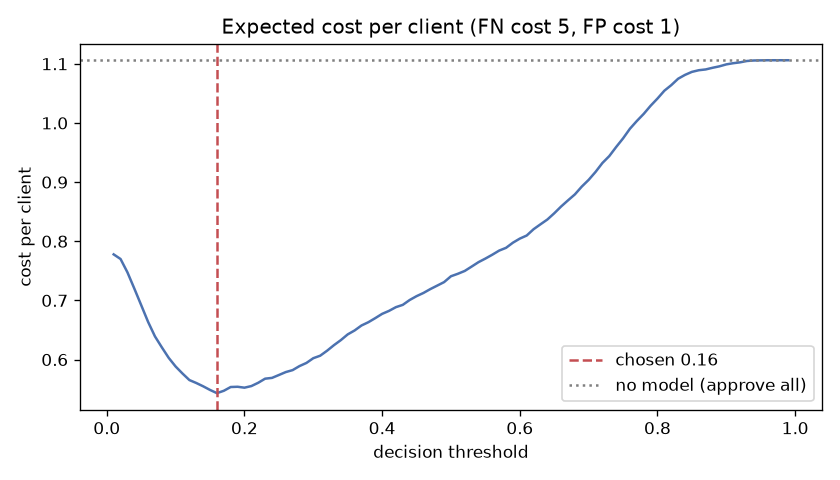
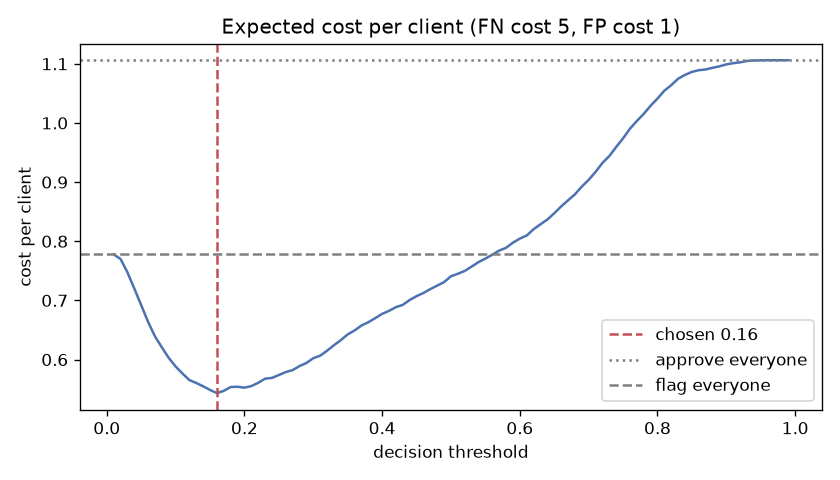
fix: findings from independent review
- API: reject NaN/Infinity (previously 500 or silently imputed); 422 body no longer
  echoes input
- tests: honest canary docstring; new test that model inputs cannot depend on the
  target; removed a preprocessing test that could not fail
- CI: download and split before make check so the split test runs
- .gitignore: track reports/history (4 archive files were silently ignored)
- xgboost dependency for every non-Linux platform (Windows untested)
- README/error analysis: cost cut vs the cheapest trivial policy (27% test), 95%
  intervals in the fairness audit, same-period test limitation, payment-ratio note

diff --git a/tests/test_training.py b/tests/test_training.py
@@ -22,10 +22,12 @@ def small_cfg() -> dict:
 
 
 def test_out_of_fold_has_no_skill_on_shuffled_labels(make_clients, small_cfg) -> None:
-    """Target-leakage canary: with labels shuffled, nothing can be learned honestly.
+    """With labels shuffled, nothing can be learned honestly.
 
-    If labels leaked into features, preprocessing or fold assignment, the out-of-fold
-    ROC-AUC would rise well above 0.5 (no skill).
+    Catches a training path that scores rows with a model that saw them (e.g. fitting on
+    all rows instead of per fold): that gives ROC-AUC ~0.85 here. It cannot catch target
+    information inside the features, because shuffled labels are unrelated to them;
+    test_model_inputs_do_not_depend_on_the_target covers that.
     """
     clients = make_clients(n=2000, seed=5)
     X = prepare(clients)
@@ -34,6 +36,15 @@ def test_out_of_fold_has_no_skill_on_shuffled_labels(make_clients, small_cfg) ->
     )
     oof = train.out_of_fold(X, y, small_cfg)
     assert roc_auc_score(y, oof) < 0.56
+
+
+def test_model_inputs_do_not_depend_on_the_target(make_clients) -> None:
+    """Feature preparation must give identical inputs whatever the labels are."""
+    clients = make_clients(n=200, seed=7)
+    flipped = clients.assign(default=1 - clients["default"])
+    out = prepare(clients)
+    assert "default" not in out.columns
+    pd.testing.assert_frame_equal(out, prepare(flipped))
 
 
 def test_out_of_fold_learns_real_signal(make_clients, small_cfg) -> None:

diff --git a/src/credit_default_risk/api.py b/src/credit_default_risk/api.py
@@ -10,7 +10,9 @@ from contextlib import asynccontextmanager
 from pathlib import Path
 
 import pandas as pd
-from fastapi import FastAPI, HTTPException
+from fastapi import FastAPI, HTTPException, Request
+from fastapi.exceptions import RequestValidationError
+from fastapi.responses import JSONResponse
 from pydantic import BaseModel, ConfigDict, Field
 
 from credit_default_risk.config import load_config, project_path
@@ -27,6 +29,9 @@ class Client(BaseModel):
 
     model_config = ConfigDict(
         extra="forbid",
+        # JSON parsers accept NaN/Infinity literals; reject them instead of letting the
+        # imputer silently fill them or the error response fail to serialise.
+        allow_inf_nan=False,
         json_schema_extra={
             "example": {
                 "LIMIT_BAL": 50000, "EDUCATION": 2,
@@ -84,6 +89,14 @@ async def lifespan(app: FastAPI):
 
 
 app = FastAPI(title="Credit default risk", version="0.1.0", lifespan=lifespan)
+
+
+@app.exception_handler(RequestValidationError)
+async def validation_error(request: Request, exc: RequestValidationError) -> JSONResponse:
+    # The default handler echoes the rejected input, which fails to serialise for
+    # NaN/Infinity (a 500 instead of a 422) and repeats client data back.
+    detail = [{k: e[k] for k in ("type", "loc", "msg") if k in e} for e in exc.errors()]
+    return JSONResponse(status_code=422, content={"detail": detail})
 
 
 @app.get("/health")

diff --git a/tests/test_model.py b/tests/test_model.py
@@ -3,28 +3,8 @@ import pandas as pd
 import pytest
 
 from credit_default_risk.config import load_config, project_path
-from credit_default_risk.features import AMOUNTS, SENSITIVE, build_preprocessor, prepare
 from credit_default_risk.predict import load_bundle, predict
 from credit_default_risk.threshold import choose_threshold, metrics_at
-
-
-def test_preprocessing_is_fitted_on_train_only(make_clients) -> None:
-    """Scaling statistics must come from the rows the pipeline was fitted on.
-
-    The "test" rows have amounts 1000x larger. If they leaked into fitting, the
-    training rows would not be centred and the test rows would not be far off-centre.
-    """
-    train = prepare(make_clients(n=200, seed=1))
-    test_raw = make_clients(n=200, seed=2)
-    test_raw[AMOUNTS] = test_raw[AMOUNTS] * 1000
-    test = prepare(test_raw)
-
-    pre = build_preprocessor(exclude=SENSITIVE).fit(train)
-    names = list(pre.get_feature_names_out())
-    cols = [names.index(c) for c in AMOUNTS]
-
-    assert np.allclose(pre.transform(train)[:, cols].mean(axis=0), 0, atol=1e-8)
-    assert (pre.transform(test)[:, cols].mean(axis=0) > 1).all()
 
 
 def test_train_and_test_ids_are_disjoint() -> None:

diff --git a/tests/test_api.py b/tests/test_api.py
@@ -1,3 +1,5 @@
+import json
+
 import pytest
 from fastapi.testclient import TestClient
 
@@ -43,3 +45,14 @@ def test_predict_rejects_sensitive_attributes(client, payload) -> None:
 def test_predict_rejects_missing_field(client, payload) -> None:
     del payload["LIMIT_BAL"]
     assert client.post("/predict", json=payload).status_code == 422
+
+
+@pytest.mark.parametrize("field", ["LIMIT_BAL", "BILL_AMT1", "PAY_AMT1"])
+@pytest.mark.parametrize("literal", ["NaN", "Infinity", "-Infinity"])
+def test_predict_rejects_non_finite_numbers(client, payload, field, literal) -> None:
+    # NaN/Infinity are not valid JSON but are accepted by Python's JSON parser.
+    body = json.dumps(payload).replace(f'"{field}": {payload[field]}', f'"{field}": {literal}')
+    assert literal in body
+    r = client.post("/predict", content=body, headers={"Content-Type": "application/json"})
+    assert r.status_code == 422
+    assert r.json()["detail"]

diff --git a/src/credit_default_risk/features.py b/src/credit_default_risk/features.py
@@ -47,7 +47,10 @@ def add_features(df: pd.DataFrame) -> pd.DataFrame:
     # Share of the previous statement that was paid. The payment in month m settles the
     # bill of month m+1: PAY_AMT1 equals BILL_AMT2 exactly for 15.2% of clients with a
     # positive bill, against 2.4% for BILL_AMT1 (training split). Clipped because bills
-    # can be ~0 or negative.
+    # can be ~0 or negative. When there was no previous bill (BILL_AMT2 <= 0, 10.4% of
+    # clients) this is just PAY_AMT1 clipped, usually 0, the same value as "had a bill and
+    # paid nothing"; the trees can tell the two apart through BILL_AMT2. An explicit
+    # no-previous-bill flag changed CV PR-AUC by +0.0011 ± 0.0016, so it was not adopted.
     df["payment_ratio_1"] = (df["PAY_AMT1"] / df["BILL_AMT2"].clip(lower=1)).clip(upper=1.5)
     late = df[PAY_STATUS].clip(lower=0)
     df["months_late"] = (late > 0).sum(axis=1)

diff --git a/src/credit_default_risk/analysis.py b/src/credit_default_risk/analysis.py
@@ -28,7 +28,8 @@ def plot_cost_curve(y, proba, cfg, threshold: float, path) -> None:
     fig, ax = plt.subplots(figsize=(7, 4))
     ax.plot(grid, costs, color="#4C72B0")
     ax.axvline(threshold, color="#C44E52", linestyle="--", label=f"chosen {threshold:.2f}")
-    ax.axhline(cost_fn * np.mean(y), color="grey", linestyle=":", label="no model (approve all)")
+    ax.axhline(cost_fn * np.mean(y), color="grey", linestyle=":", label="approve everyone")
+    ax.axhline(cost_fp * (1 - np.mean(y)), color="grey", linestyle="--", label="flag everyone")
     ax.set(
         title=f"Expected cost per client (FN cost {cost_fn}, FP cost {cost_fp})",
         xlabel="decision threshold",

diff --git a/README.md b/README.md
@@ -2,13 +2,13 @@
 
 Predict whether a credit card client will miss next month's payment, choose the decision threshold from the cost of each kind of error, and serve the model as a containerised API.
 
-**Result:** on a held-out test set of 6,000 clients, the model cuts the expected cost of errors by **49%** compared with approving everyone. It catches **75% of defaulters** (PR-AUC 0.554 against a 0.221 no-skill baseline), without using sex, marital status or age.
+**Result:** on a held-out test set of 6,000 clients, the model cuts the expected cost of errors by **27%** compared with the cheapest simple policy (flagging everyone), and by 49% compared with approving everyone. It catches **75% of defaulters** (PR-AUC 0.554 against a 0.221 no-skill baseline), without using sex, marital status or age.
 
 ## Problem
 
 A card issuer reviews its clients every month. For each client the model estimates the probability of defaulting on the next payment, and clients above a threshold are flagged for action (manual review, a reminder or a lower limit).
 
-Missing a defaulter is assumed to cost **5 times** as much as flagging a client who would have paid. Success is measured as the expected cost per client against the policy of flagging no one. PR-AUC is the ranking metric, because only 22% of clients default and accuracy would be misleading.
+Missing a defaulter is assumed to cost **5 times** as much as flagging a client who would have paid. Success is measured as the expected cost per client against the two simple policies: approving everyone and flagging everyone. PR-AUC is the ranking metric, because only 22% of clients default and accuracy would be misleading.
 
 ## Data
 
@@ -20,7 +20,7 @@ Missing a defaulter is assumed to cost **5 times** as much as flagging a client 
 
 1. **Split first.** The data is split 80/20 into train and test, stratified at 22.12% defaults in both. The test set is not used for any modelling decision; see [Test-set use](#test-set-use) for the two times it was evaluated.
 2. **Exploration on train only** ([reports/eda.md](reports/eda.md)). Recent repayment status dominates: clients late last month default at 50.4%, against 13.7% for everyone else. The categorical codes contain undocumented values, the bill amounts are highly collinear and skewed, and each payment settles the *previous* month's bill.
-3. **No-leakage pipeline.** Cleaning and engineered features (`months_late`, `max_months_late`, utilisation, payment ratio) are computed row by row. Imputation, scaling and one-hot encoding are fitted inside a scikit-learn `Pipeline` on each training fold only. The same `prepare()` function runs in training and in the API. Tests check this on the real training path, with a shuffled-label canary and a per-fold refit comparison.
+3. **No-leakage pipeline.** Cleaning and engineered features (`months_late`, `max_months_late`, utilisation, payment ratio) are computed row by row. Imputation, scaling and one-hot encoding are fitted inside a scikit-learn `Pipeline` on each training fold only. The same `prepare()` function runs in training and in the API. Tests check that the model inputs cannot depend on the target, that every out-of-fold score comes from a pipeline refitted without that fold, and that a training path scoring rows its model has seen would be detected.
 4. **Model selection** with stratified 5-fold cross-validation ([reports/cv_results.md](reports/cv_results.md)): a prior baseline, logistic regression, random forest and XGBoost. XGBoost was chosen before the test set was opened.
 5. **Sensitive attributes removed.** Dropping sex, marital status and age cost 0.0002 PR-AUC in cross-validation, against a fold-to-fold standard deviation of 0.012. They are not model inputs, and the API does not accept them.
 6. **Cost-based threshold** ([reports/error_analysis.md](reports/error_analysis.md)). The threshold 0.16 minimises expected cost on out-of-fold predictions. It matches the decision-theory optimum 1/(1+5) ≈ 0.167, because the model is well calibrated overall (mean prediction 0.220 vs 0.221 observed).
@@ -46,9 +46,11 @@ Final model, threshold 0.16 ([reports/test_metrics.json](reports/test_metrics.js
 | Recall | 76.7% | 74.6% |
 | Precision | 37.3% | 36.5% |
 | Clients flagged | 45.5% | 45.2% |
-| Cost per client (no model: 1.106) | 0.543 | 0.568 |
+| Cost per client | 0.543 | 0.568 |
+| … if everyone is approved | 1.106 | 1.106 |
+| … if everyone is flagged | 0.779 | 0.779 |
 
-The test PR-AUC is within 0.005 of cross-validation, so there is no sign of overfitting to the validation folds.
+The test PR-AUC is within 0.005 of cross-validation, so there is no sign of overfitting to the validation folds. The test clients come from the same months as the training clients, so this says nothing about how the model holds up on later months (see Limitations).
 
 **Serving:** CPU inference in Docker on a 2-core 2018 MacBook Air takes 32 ms on average and 51 ms at p95 per request, end to end over HTTP (50 requests).
 
@@ -126,8 +128,10 @@ Other targets: `make check` (Ruff + pytest), `make eda`, `make cv`, `make analys
 ## Limitations
 
 - **Clean-history defaulters are a blind spot.** 91% of the missed defaulters were never late in the previous 6 months. The data has no income, other debts or bureau score, so these clients look like good ones.
-- **The 5:1 cost ratio is an assumption.** At this ratio 45% of clients are flagged, which only makes sense if the action is cheap (a reminder or a review, not a refusal). The cost curve is flat between about 0.12 and 0.25, so the threshold can be raised with little loss.
-- **Indirect group differences remain.** Without using age, good clients aged 21–25 are still flagged 50% of the time, against 34% for ages 26–40, mostly through lower credit limits. The model also slightly under-predicts risk for ages 41–60 (22.5% predicted vs 23.8% observed). This needs a review before any real use.
+- **The test set is from the same period.** The split is random within one observation window (April–September 2005, target October 2005). The test score measures performance on unseen clients from that period, not on future months; an out-of-time evaluation would need later data.
+- **The 5:1 cost ratio is an assumption.** At this ratio 45% of clients are flagged, and flagging everyone is already 30% cheaper than approving everyone, which only makes sense if the action is cheap (a reminder or a review, not a refusal). The cost curve is flat between about 0.12 and 0.25, so the threshold can be raised with little loss.
+- **Indirect group differences remain.** Without using age, good clients aged 21–25 are still flagged 50% of the time, against 34% for ages 26–40, mostly through lower credit limits. There is weak evidence that the model slightly under-predicts risk for men and for ages 41–60 (about 1 pp, just outside the 95% interval). This needs a review before any real use.
+- **`payment_ratio_1` gives the same value to "no previous bill" and "had a bill, paid nothing".** The trees can separate them through `BILL_AMT2`. An explicit flag was tested in cross-validation only (+0.0011 ± 0.0016 PR-AUC, within noise), so the evaluated model was kept rather than using the test set a third time.
 - **The evaluated model file is not distributed with the repo.** A clone can reproduce the results within tolerance, but not the exact file.
 - **The data is old and from one market** (Taiwan, 2005, a period of rising card debt). The model would need revalidation on current data, and monitoring for drift.
 

diff --git a/reports/history/v1/error_analysis_tables.md b/reports/history/v1/error_analysis_tables.md
@@ -1,0 +1,75 @@
+# Error analysis tables (generated by `make analysis`)
+
+Out-of-fold predictions on the training split, threshold 0.16. Recall = share of defaulters flagged; false positive rate = share of non-defaulters flagged; mean predicted vs default rate shows calibration.
+
+## Permutation importance (mean drop in PR-AUC over 5 validation folds)
+
+| feature | mean | std |
+| --- | --- | --- |
+| PAY_1 | 0.126 | 0.017 |
+| months_late | 0.031 | 0.003 |
+| max_months_late | 0.017 | 0.005 |
+| BILL_AMT1 | 0.012 | 0.004 |
+| PAY_AMT3 | 0.009 | 0.004 |
+| utilization_1 | 0.008 | 0.003 |
+| LIMIT_BAL | 0.008 | 0.003 |
+| PAY_AMT2 | 0.007 | 0.001 |
+| PAY_AMT6 | 0.005 | 0.003 |
+| EDUCATION | 0.005 | 0.002 |
+| PAY_AMT5 | 0.004 | 0.002 |
+| PAY_AMT1 | 0.003 | 0.002 |
+
+## Most recent repayment status (PAY_1)
+
+| segment | clients | default rate | flagged | recall | false positive rate | mean predicted |
+| --- | --- | --- | --- | --- | --- | --- |
+| paid / revolving (≤0) | 18,506 | 0.137 | 0.313 | 0.530 | 0.279 | 0.136 |
+| 1 month late | 3,000 | 0.344 | 0.874 | 0.954 | 0.832 | 0.344 |
+| 2+ months late | 2,494 | 0.697 | 0.998 | 0.999 | 0.995 | 0.693 |
+
+## Months late in the last 6
+
+| segment | clients | default rate | flagged | recall | false positive rate | mean predicted |
+| --- | --- | --- | --- | --- | --- | --- |
+| never late | 15,896 | 0.115 | 0.224 | 0.386 | 0.203 | 0.114 |
+| 1-2 months | 5,104 | 0.330 | 0.855 | 0.932 | 0.817 | 0.328 |
+| 3-6 months | 3,000 | 0.599 | 0.995 | 0.998 | 0.990 | 0.600 |
+
+## Credit limit quintile
+
+| segment | clients | default rate | flagged | recall | false positive rate | mean predicted |
+| --- | --- | --- | --- | --- | --- | --- |
+| Q1 lowest | 6,146 | 0.322 | 0.711 | 0.869 | 0.635 | 0.322 |
+| Q2 | 3,819 | 0.259 | 0.503 | 0.807 | 0.397 | 0.258 |
+| Q3 | 4,922 | 0.200 | 0.403 | 0.719 | 0.325 | 0.199 |
+| Q4 | 4,380 | 0.169 | 0.336 | 0.652 | 0.272 | 0.165 |
+| Q5 highest | 4,733 | 0.131 | 0.246 | 0.583 | 0.195 | 0.130 |
+
+## Education
+
+| segment | clients | default rate | flagged | recall | false positive rate | mean predicted |
+| --- | --- | --- | --- | --- | --- | --- |
+| graduate school | 8,455 | 0.193 | 0.405 | 0.735 | 0.326 | 0.191 |
+| high school | 3,903 | 0.250 | 0.504 | 0.798 | 0.406 | 0.250 |
+| other | 386 | 0.073 | 0.111 | 0.179 | 0.106 | 0.082 |
+| university | 11,256 | 0.238 | 0.487 | 0.780 | 0.395 | 0.236 |
+
+## Sex (not a model input; fairness audit)
+
+| segment | clients | default rate | flagged | recall | false positive rate | mean predicted |
+| --- | --- | --- | --- | --- | --- | --- |
+| female | 14,514 | 0.206 | 0.434 | 0.755 | 0.351 | 0.211 |
+| male | 9,486 | 0.244 | 0.485 | 0.780 | 0.390 | 0.234 |
+
+## Age band (not a model input; fairness audit)
+
+| segment | clients | default rate | flagged | recall | false positive rate | mean predicted |
+| --- | --- | --- | --- | --- | --- | --- |
+| 21-25 | 3,104 | 0.269 | 0.586 | 0.819 | 0.500 | 0.271 |
+| 26-40 | 14,336 | 0.203 | 0.420 | 0.744 | 0.338 | 0.206 |
+| 41-60 | 6,346 | 0.238 | 0.466 | 0.777 | 0.369 | 0.225 |
+| 61+ | 214 | 0.276 | 0.505 | 0.814 | 0.387 | 0.252 |
+
+## Missed defaulters
+
+1242 of 5309 defaulters were not flagged. 90.4% of them were never late in the last 6 months (vs 34.5% of all defaulters).

diff --git a/reports/error_analysis.md b/reports/error_analysis.md
@@ -14,9 +14,10 @@ Every number here comes from out-of-fold predictions on the 24,000 training clie
 | Precision (flagged clients who default) | 37.3% |
 | Clients flagged | 45.5% |
 | Cost per client | 0.543 |
-| Cost per client with no model (approve everyone) | 1.106 |
+| Cost per client if everyone is approved | 1.106 |
+| Cost per client if everyone is flagged | 0.779 |
 
-The model **cuts the expected cost of errors by 51%** compared with approving everyone. The price is that almost half of clients are flagged. The cost curve is flat between about 0.12 and 0.25, so a lender who can only review fewer clients loses little by raising the threshold a bit.
+Under the 5:1 cost assumption, flagging everyone is the cheaper of the two trivial policies, so it is the fair baseline. The model **cuts the expected cost of errors by 30%** compared with flagging everyone, and by 51% compared with approving everyone. It beats the flag-everyone policy only at thresholds below about 0.57 (see the cost curve). The price is that almost half of clients are flagged. The cost curve is flat between about 0.12 and 0.25, so a lender who can only review fewer clients loses little by raising the threshold a bit.
 
 ## What drives the predictions
 
@@ -55,6 +56,6 @@ Sex and age are not model inputs, but correlated features can still produce grou
 | Age 41–60 | 6,346 | 23.8% | 22.5% | 46.4% | 36.6% |
 | Age 61+ | 214 | 27.6% | 25.1% | 49.5% | 36.8% |
 
-- **Calibration differs a little by group.** The model slightly over-predicts for women (+0.5 pp) and under-predicts for men (−1.0 pp) and for ages 41–60 (−1.3 pp). With 6,346 clients aged 41–60 the sampling error is about ±0.5 pp, so that gap is probably real, though small. For ages 61+ the gap is −2.5 pp, but with only 214 clients its sampling error is about ±3.1 pp, so that gap cannot be distinguished from noise.
+- **Calibration differs a little by group.** The model slightly over-predicts for women (+0.5 pp, inside the ±0.7 pp 95% interval of the observed rate) and under-predicts for men (−1.0 pp, interval ±0.9 pp) and for ages 41–60 (−1.3 pp, interval ±1.0 pp). The two under-predictions are only just outside their intervals: weak evidence of a small bias. For ages 61+ the gap is −2.5 pp, but with only 214 clients the 95% interval is about ±6 pp, so that gap cannot be distinguished from noise. (Intervals are ±1.96 standard errors of a proportion.)
 - **Flag rates mostly follow the real differences in default rates.**
 - **Young clients bear more false alarms.** Good clients aged 21–25 are flagged half the time (49.6% false positive rate, against 34.1% for ages 26–40), mostly through their lower credit limits and shorter repayment records. This would need a documented review before any real use.

diff --git a/reports/history/v1/cv_results.md b/reports/history/v1/cv_results.md
@@ -1,0 +1,12 @@
+# Cross-validation results (training split, stratified 5-fold)
+
+Mean ± standard deviation over the 5 folds. F1, recall and precision use the default 0.5 threshold; the decision threshold is chosen separately, from the cost of errors.
+
+| Model | PR-AUC | ROC-AUC | F1@0.5 | Recall@0.5 | Precision@0.5 | Time (s) |
+| --- | --- | --- | --- | --- | --- | --- |
+| baseline (prior) | 0.221 ± 0.000 | 0.500 ± 0.000 | 0.000 ± 0.000 | 0.000 ± 0.000 | 0.000 ± 0.000 | 1 |
+| logistic regression | 0.515 ± 0.012 | 0.765 ± 0.007 | 0.420 ± 0.019 | 0.311 ± 0.018 | 0.647 ± 0.021 | 1 |
+| random forest | 0.556 ± 0.009 | 0.782 ± 0.008 | 0.477 ± 0.019 | 0.370 ± 0.021 | 0.675 ± 0.013 | 34 |
+| xgboost | 0.561 ± 0.012 | 0.784 ± 0.005 | 0.479 ± 0.019 | 0.373 ± 0.019 | 0.670 ± 0.015 | 6 |
+| logistic regression, without SEX/MARRIAGE/AGE | 0.513 ± 0.012 | 0.764 ± 0.007 | 0.418 ± 0.019 | 0.308 ± 0.018 | 0.648 ± 0.021 | 1 |
+| xgboost, without SEX/MARRIAGE/AGE | 0.560 ± 0.011 | 0.783 ± 0.005 | 0.478 ± 0.014 | 0.370 ± 0.015 | 0.676 ± 0.014 | 5 |

diff --git a/reports/history/v1/README.md b/reports/history/v1/README.md
@@ -1,0 +1,14 @@
+# Version 1 results (superseded)
+
+The first model, evaluated once on the test set on 2026-10-18. Its `payment_ratio_1`
+feature divided the September payment by the September bill; the payment actually
+settles the previous (August) statement. After that bug was found and fixed, the model
+was retrained and the test set was used a second time (see `../test_metrics.json`).
+The fix was adopted regardless of its effect on any score.
+
+Version 1 test results: PR-AUC 0.556, ROC-AUC 0.776, recall 74.7% at threshold 0.16,
+cost per client 0.564 (no model: 1.106).
+
+Note: `train_summary.json` here is from a retrain at 14:56 UTC that produced identical
+predictions to the evaluated model trained at 14:49 UTC (same platform, deterministic);
+model files were not hashed in version 1.
